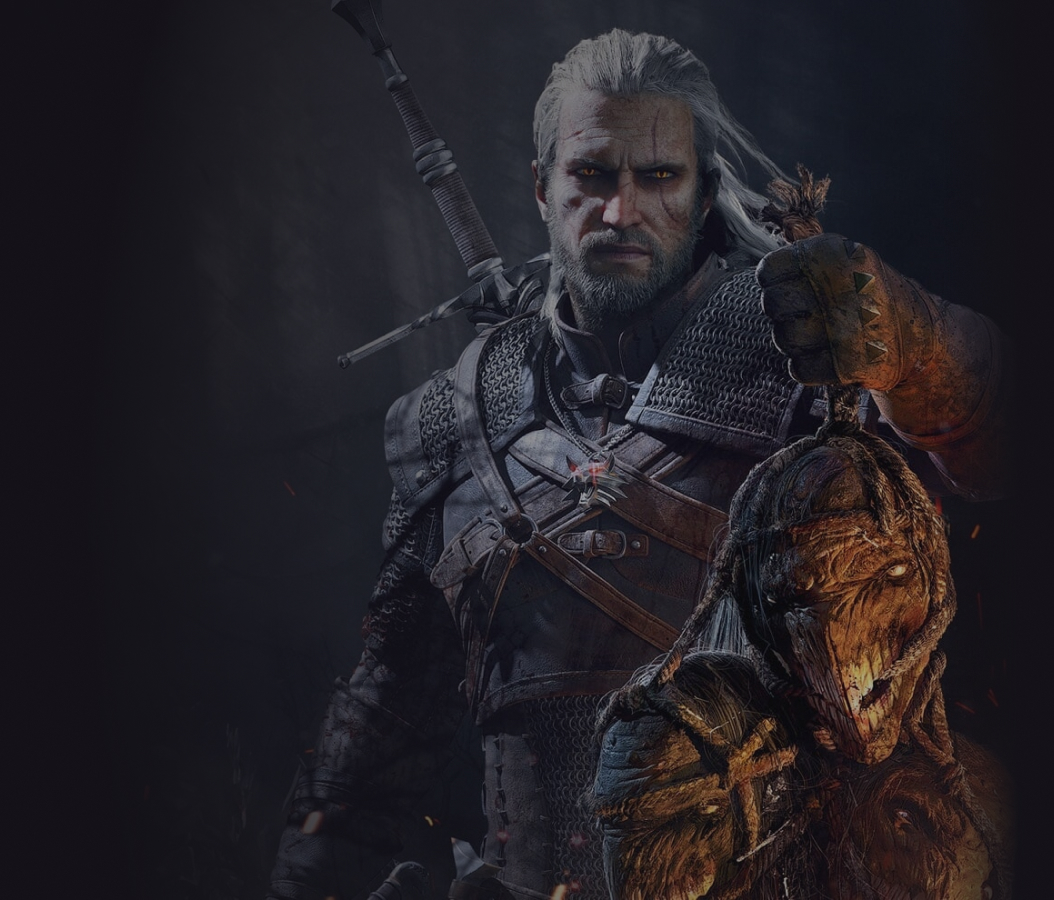
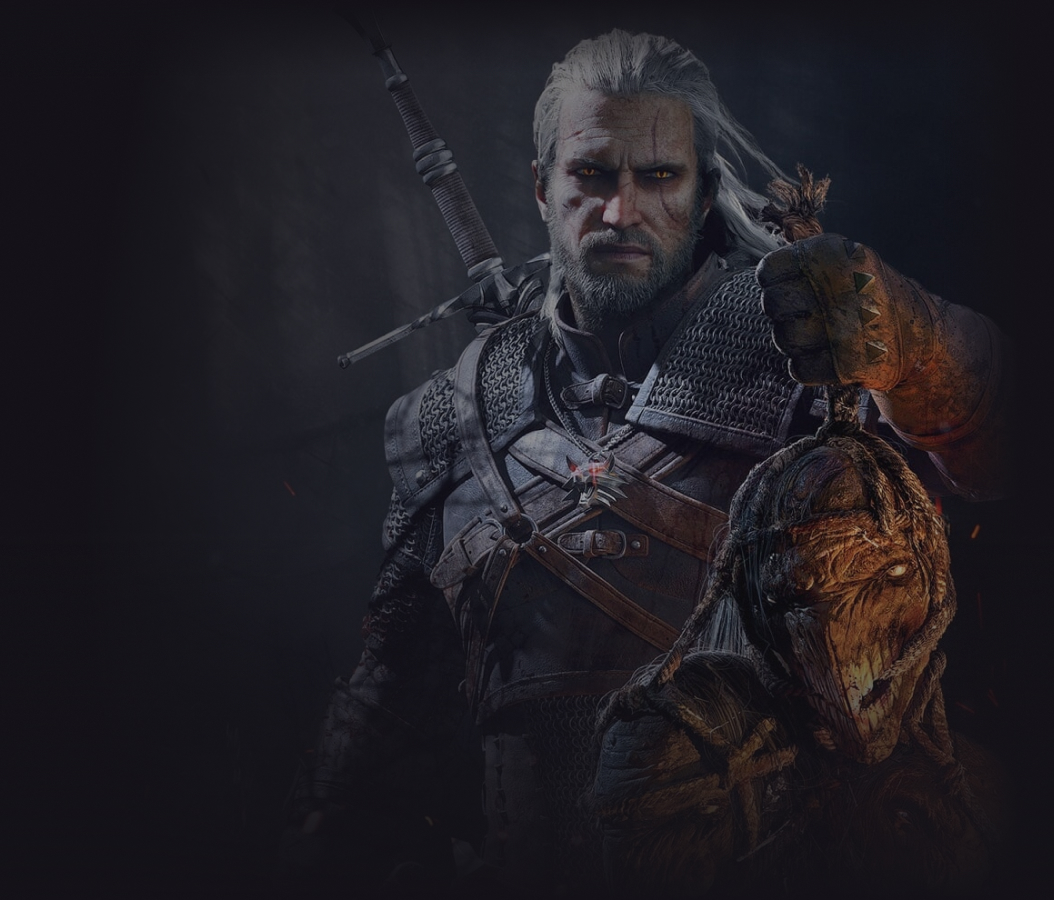
bg-webp

diff --git a/TheWitcher/css/main.css b/TheWitcher/css/main.css
@@ -32,7 +32,7 @@ body {
   overflow: hidden;
   position: relative;
   flex-grow: 1;
-  background-image: url(../images/main-bg.jpg);
+  background-image: url(../images/main-bg.webp);
   background-repeat: no-repeat;
   background-position: top right 20%;
   z-index: 0;
@@ -54,6 +54,7 @@ body {
     );
   z-index: -1;
 }
+
 .container {
   width: 94%;
   max-width: 1140px;
